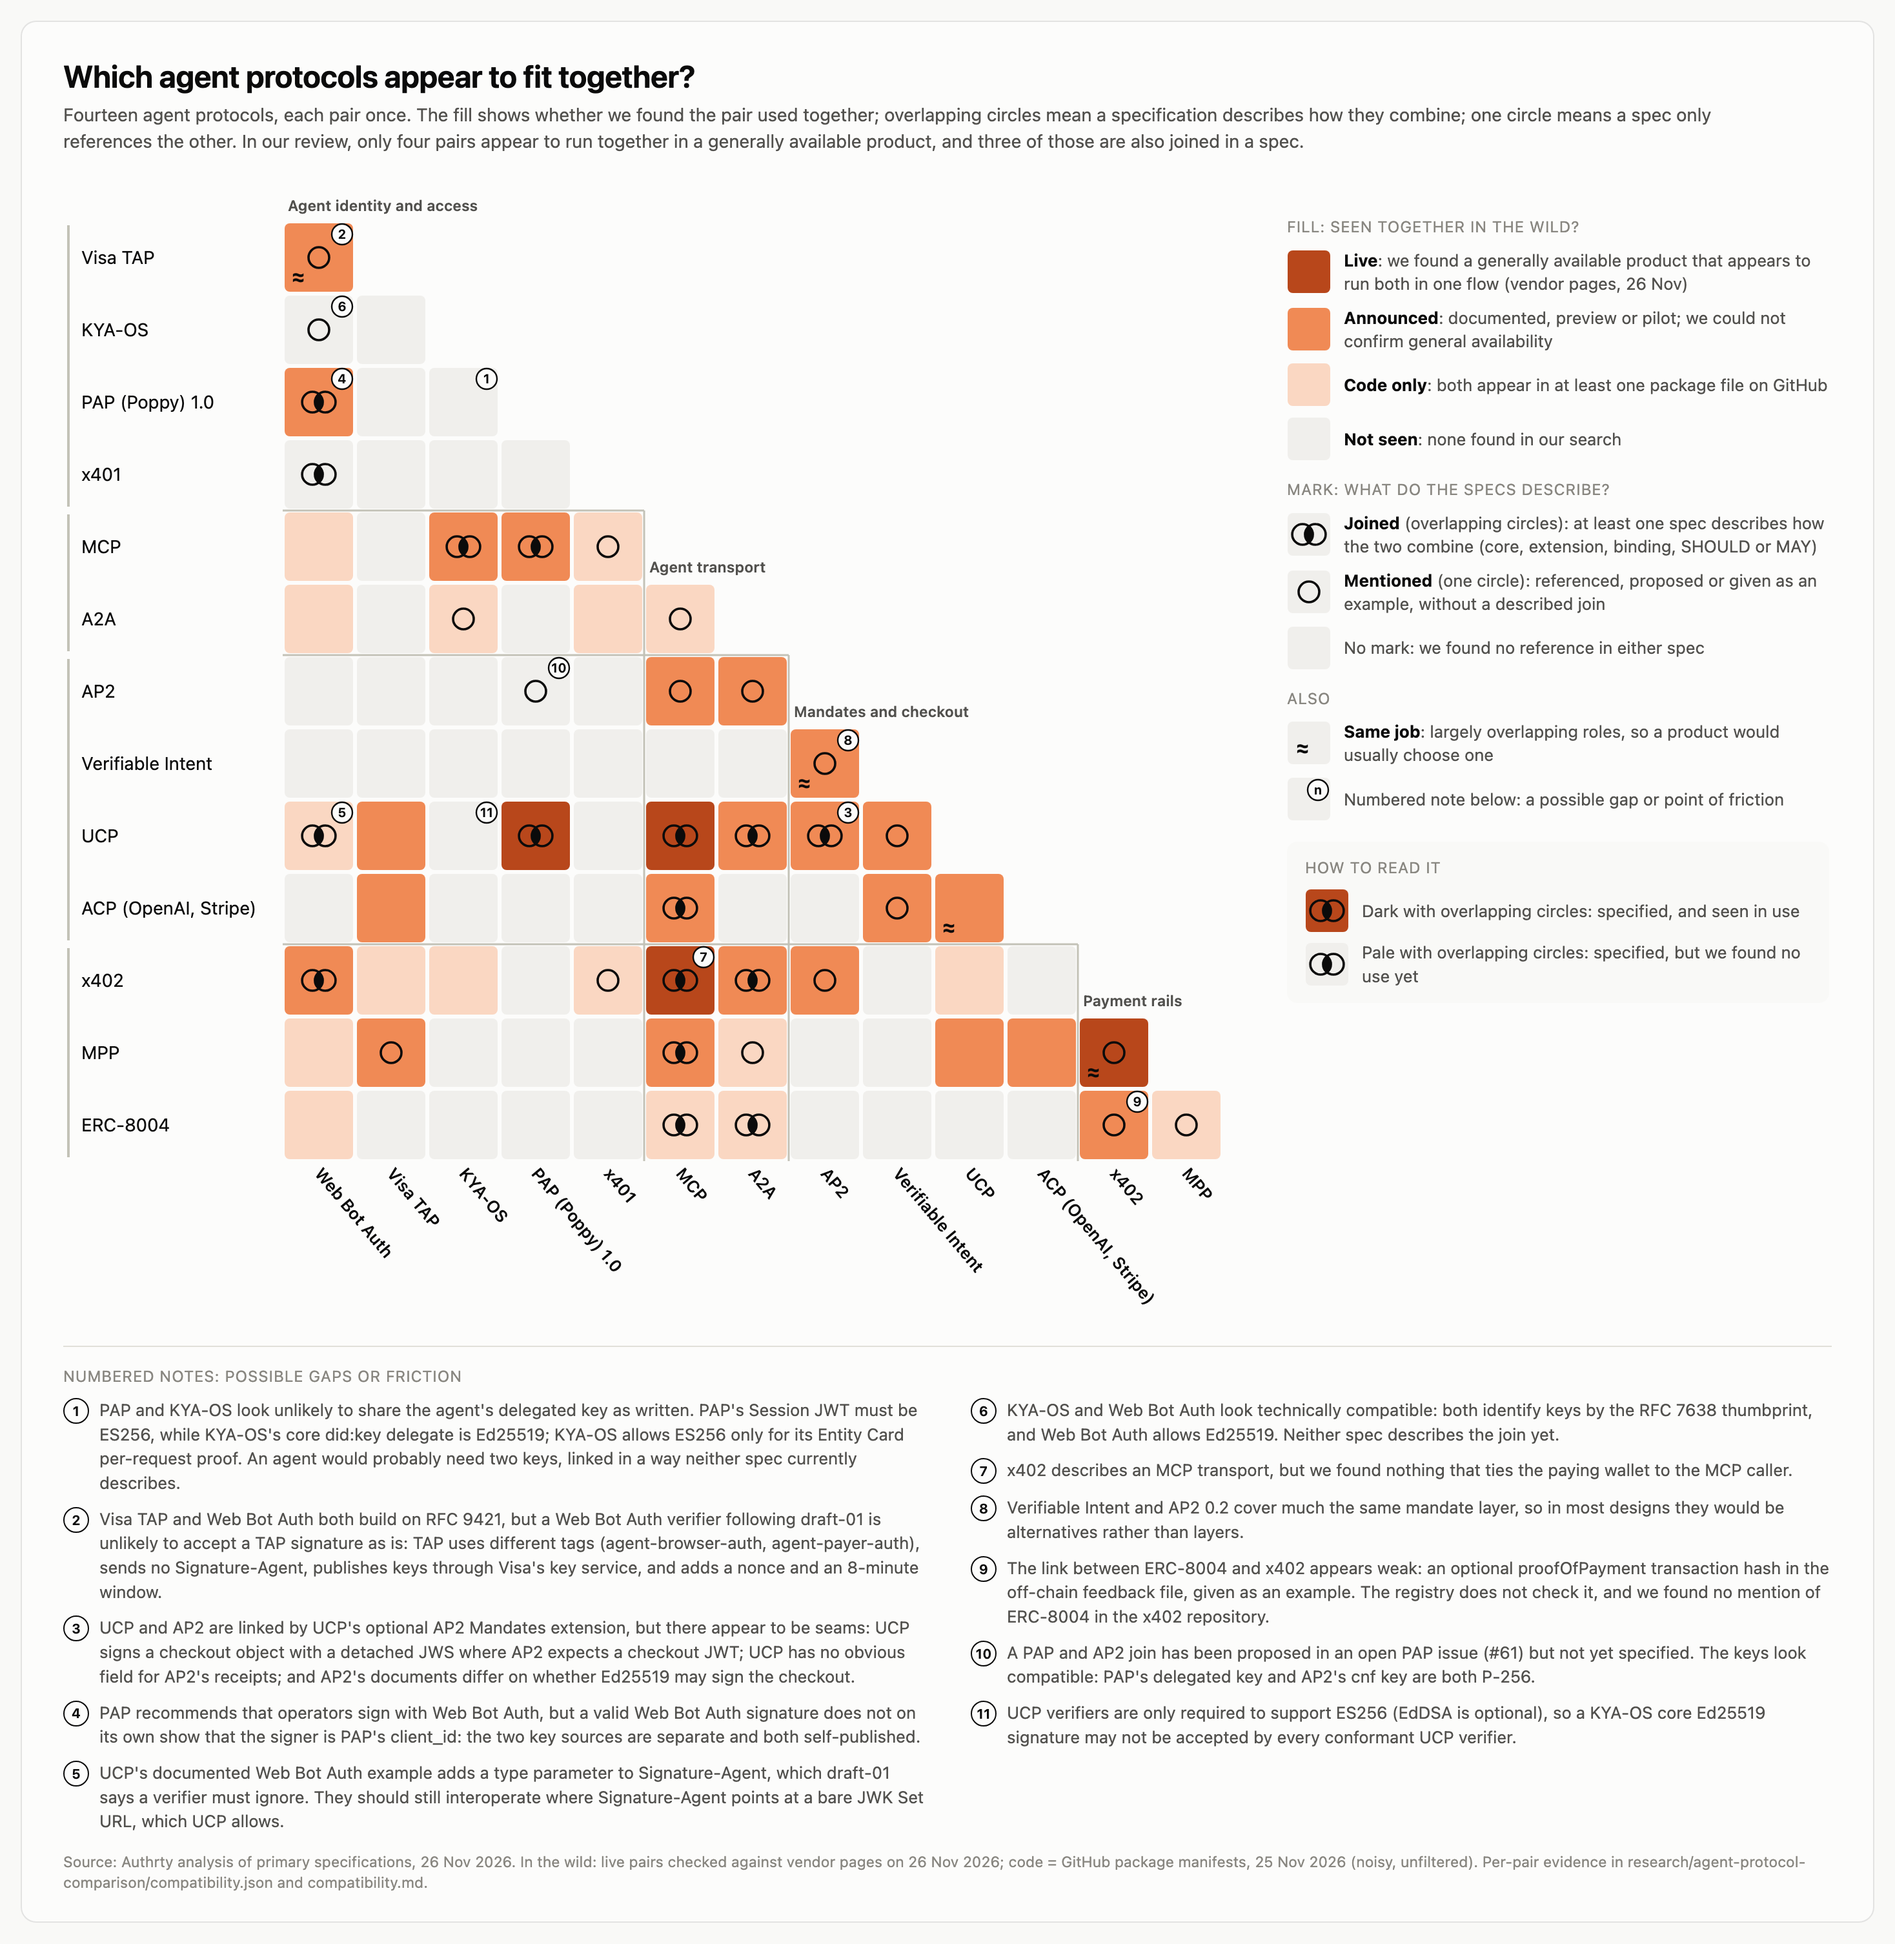
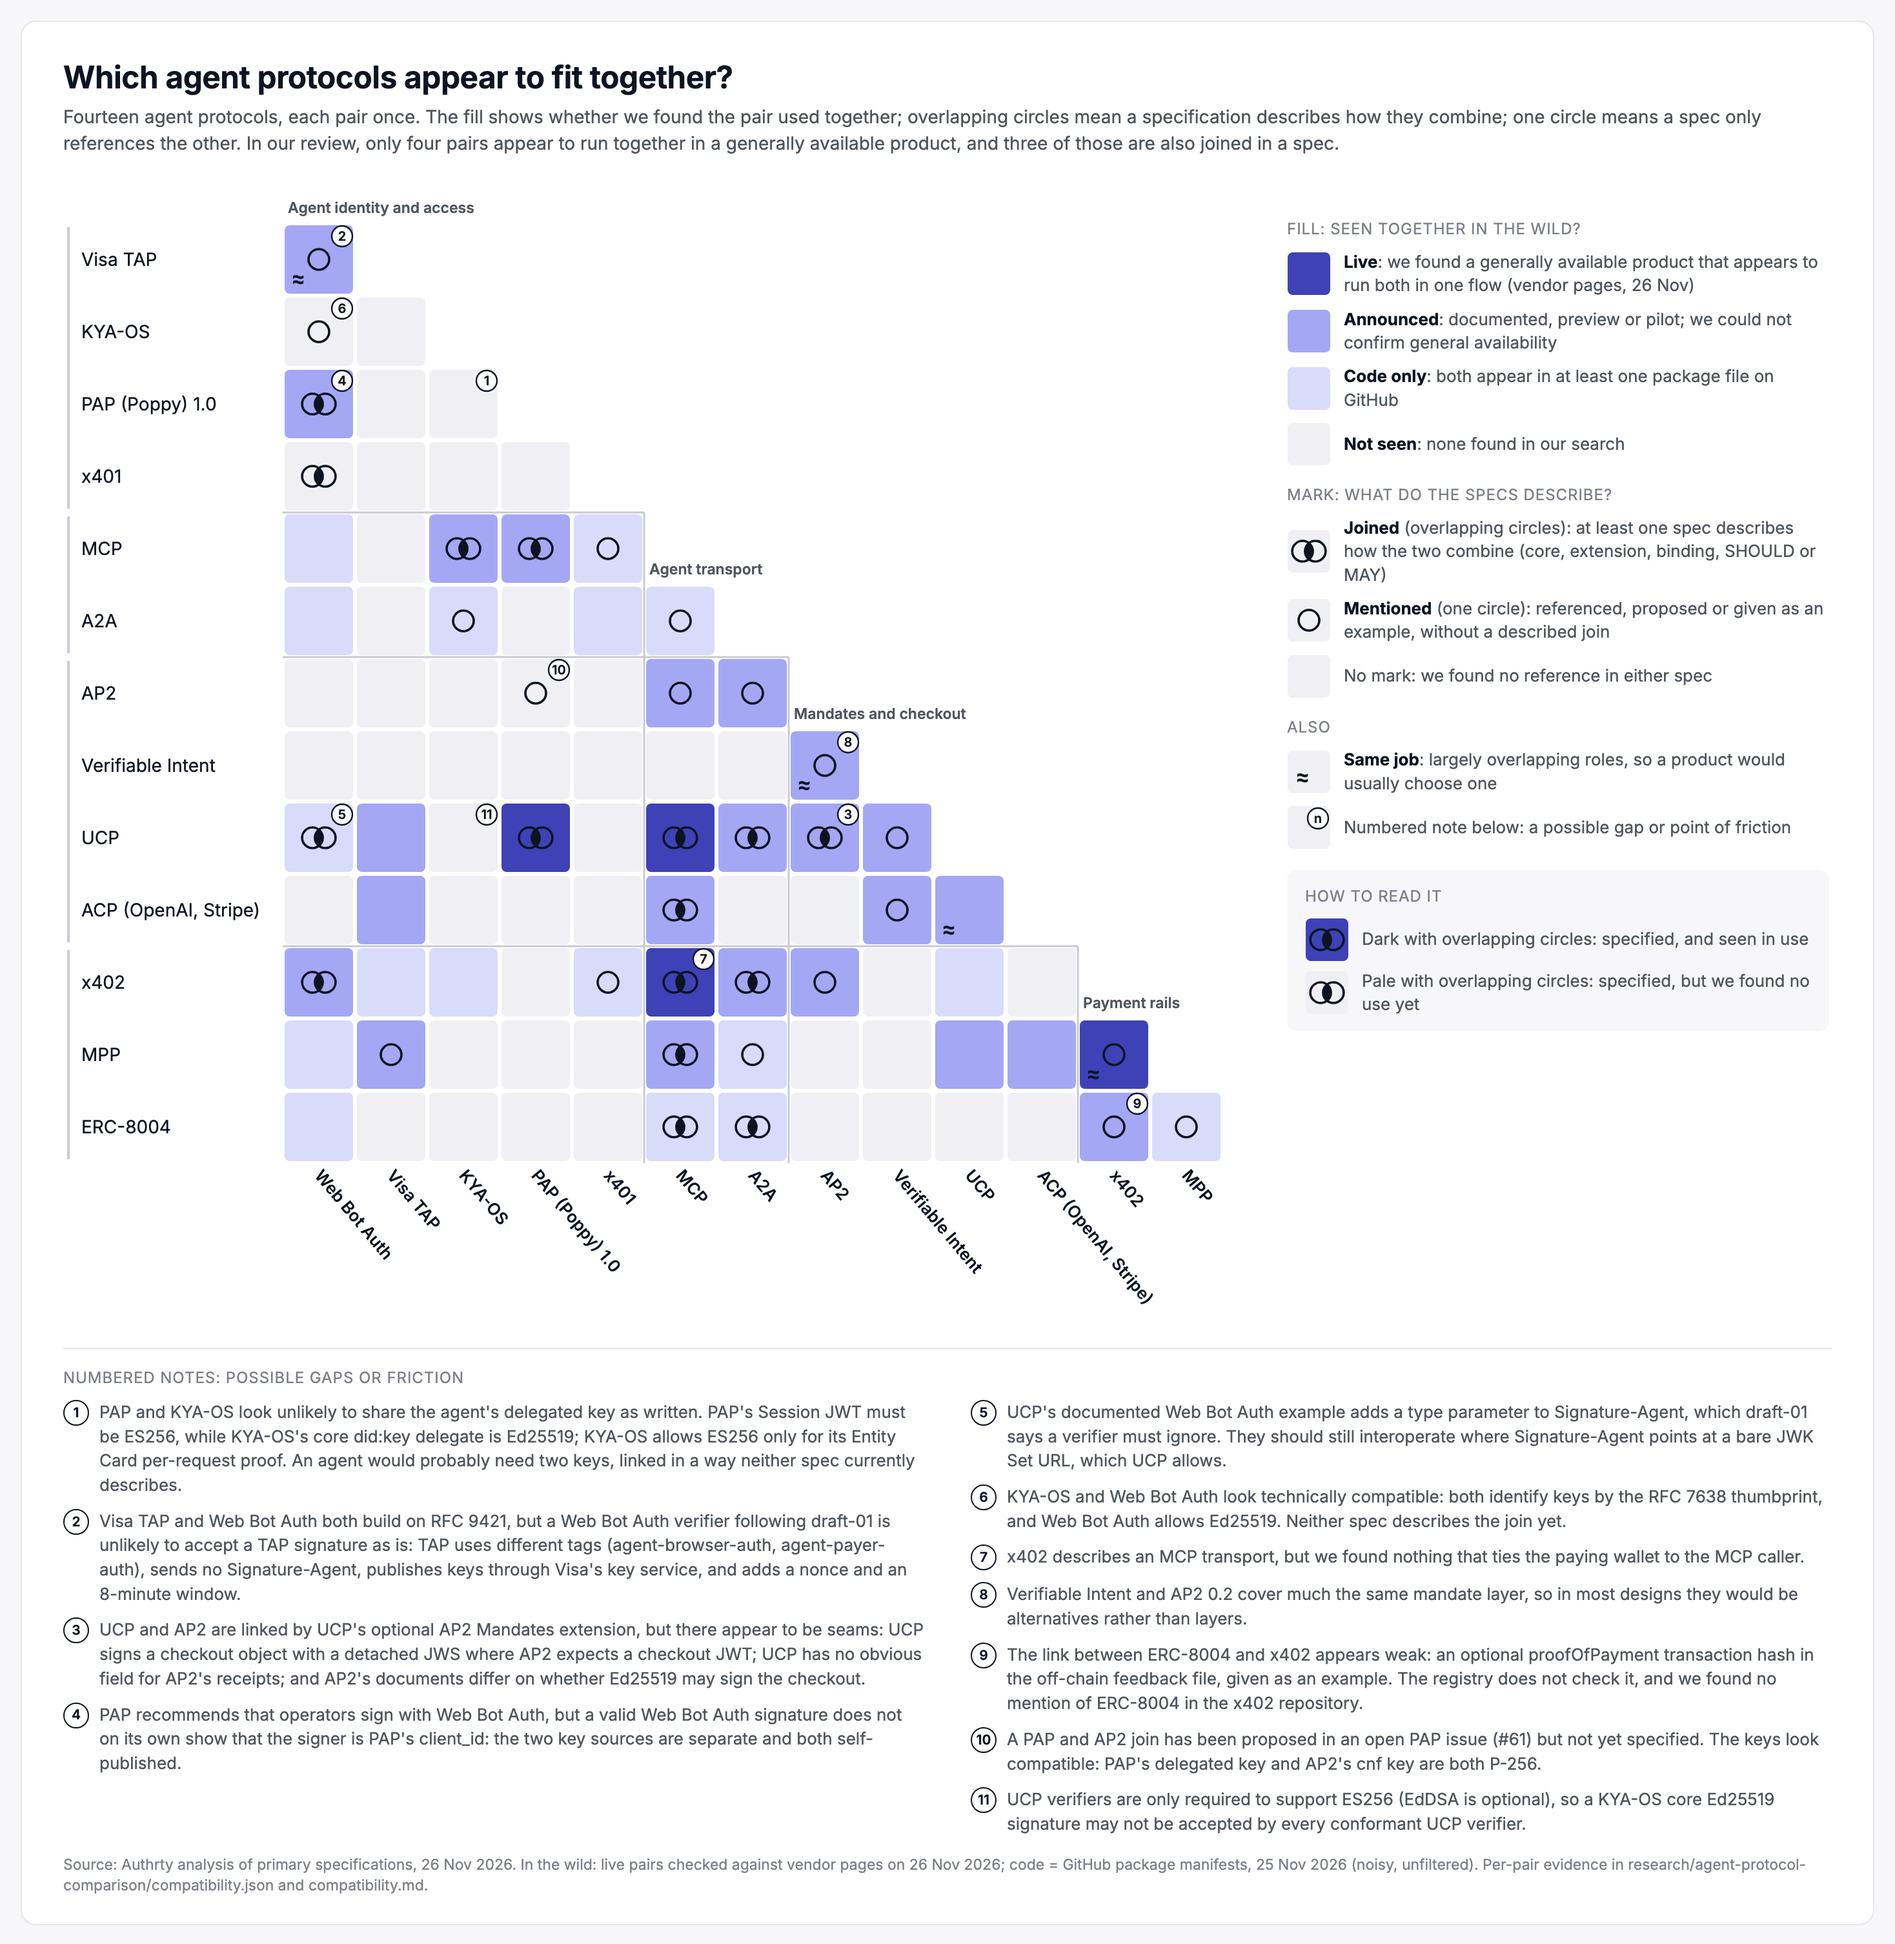
Restyle comparison charts in the Authrty palette
Uses the authrty.ai brand colours and font across the seven comparison
charts: indigo #3E42B6 for met and live, lavender #B9BBF8 for partial
and announced, navy #0D1421 for text and adoption bars, Inter for type.
Scores, data and layout are unchanged. The OneID archive chart is left
as it was.

diff --git a/research/agent-protocol-comparison/charts/compat-matrix.py b/research/agent-protocol-comparison/charts/compat-matrix.py
@@ -11,15 +11,17 @@ import json, sys, html, os
 C = json.load(open(sys.argv[1]))
 OUT = sys.argv[2]
 
-INK, INK2, MUTED = '#0b0b0b', '#52514e', '#898781'
-SURF, PLANE, GRID, AXIS = '#fcfcfb', '#f9f9f7', '#e1e0d9', '#c3c2b7'
-ABSENT = '#f0efec'
-# one hue, light -> dark
-WILD = {'none': (ABSENT, INK), 'code': ('#fad7c2', INK), 'announced': ('#f08a55', INK), 'live': ('#b8471b', '#fff')}
+# Authrty brand palette (authrty.ai): navy #0D1421, indigo #3E42B6, lavender #B9BBF8, text #50565D, font Inter
+INK, INK2, MUTED = '#0D1421', '#50565D', '#7B7F88'
+SURF, PLANE, GRID, AXIS = '#FFFFFF', '#F7F7FA', '#E6E6EC', '#C9CAD6'
+ABSENT = '#F0F0F4'
+# one hue (Authrty indigo), light -> dark
+WILD = {'none': (ABSENT, INK), 'code': ('#D9DBFA', INK), 'announced': ('#A4A7F3', INK), 'live': ('#3E42B6', '#fff')}
 WILD_LABEL = {'live': 'Live', 'announced': 'Announced, preview or pilot', 'code': 'Code only', 'none': 'Not seen'}
 WRANK = {'live': 3, 'announced': 2, 'code': 1, 'none': 0}
 SRANK = {'defined': 2, 'mentioned': 1, 'none': 0}
-FONT = 'system-ui,-apple-system,"Segoe UI",sans-serif'
+FONT = 'Inter,system-ui,-apple-system,"Segoe UI",sans-serif'
+FONT_LINK = '<link rel="preconnect" href="https://fonts.googleapis.com"><link href="https://fonts.googleapis.com/css2?family=Inter:wght@400;600;650;700&display=block" rel="stylesheet">'
 
 NAMES = {'ACP': 'ACP (OpenAI, Stripe)', 'UCP': 'UCP', 'AP2': 'AP2', 'VI': 'Verifiable Intent',
          'TAP': 'Visa TAP', 'x402': 'x402', 'MPP': 'MPP', 'PAP': 'PAP (Poppy) 1.0', 'MCP': 'MCP',
@@ -70,10 +72,10 @@ def badge(x, y, n):
 
 
 def page(title, sub, body, w, src):
-    return f'''<!doctype html><html><head><meta charset="utf-8"><title>{html.escape(title)}</title><style>
+    return f'''<!doctype html><html><head><meta charset="utf-8">{FONT_LINK}<title>{html.escape(title)}</title><style>
 html,body{{margin:0;background:{PLANE}}}
 body{{width:{w}px;font-family:{FONT};color:{INK}}}
-.card{{margin:16px;background:{SURF};border:1px solid rgba(11,11,11,.10);border-radius:12px;padding:28px 32px 22px}}
+.card{{margin:16px;background:{SURF};border:1px solid rgba(13,20,33,.10);border-radius:12px;padding:28px 32px 22px}}
 h1{{font-size:24px;font-weight:650;margin:0 0 6px;letter-spacing:-.01em}}
 .sub{{font-size:14px;color:{INK2};margin:0 0 18px;line-height:1.45;max-width:{w-140}px}}
 .src{{font-size:11.5px;color:{MUTED};margin-top:14px;line-height:1.4}}
@@ -165,14 +167,14 @@ def tri_legend():
     def cell(fill, inner=''):
         return f'<svg width="34" height="34" style="flex:none"><rect x="0.5" y="0.5" width="33" height="33" rx="4" fill="{fill}"/>{inner}</svg>'
     fill_rows = ''.join(row(cell(WILD[k][0]), t) for k, t in [
-        ('live', '<b style="color:#0b0b0b">Live</b>: we found a generally available product that appears to run both in one flow (vendor pages, 26 Nov)'),
-        ('announced', '<b style="color:#0b0b0b">Announced</b>: documented, preview or pilot; we could not confirm general availability'),
-        ('code', '<b style="color:#0b0b0b">Code only</b>: both appear in at least one package file on GitHub'),
-        ('none', '<b style="color:#0b0b0b">Not seen</b>: none found in our search')])
-    glyph_rows = (row(cell(ABSENT, glyph(17, 17, 'defined', INK)), '<b style="color:#0b0b0b">Joined</b> (overlapping circles): at least one spec describes how the two combine (core, extension, binding, SHOULD or MAY)')
-                  + row(cell(ABSENT, glyph(17, 17, 'mentioned', INK)), '<b style="color:#0b0b0b">Mentioned</b> (one circle): referenced, proposed or given as an example, without a described join')
+        ('live', '<b style="color:#0D1421">Live</b>: we found a generally available product that appears to run both in one flow (vendor pages, 26 Nov)'),
+        ('announced', '<b style="color:#0D1421">Announced</b>: documented, preview or pilot; we could not confirm general availability'),
+        ('code', '<b style="color:#0D1421">Code only</b>: both appear in at least one package file on GitHub'),
+        ('none', '<b style="color:#0D1421">Not seen</b>: none found in our search')])
+    glyph_rows = (row(cell(ABSENT, glyph(17, 17, 'defined', INK)), '<b style="color:#0D1421">Joined</b> (overlapping circles): at least one spec describes how the two combine (core, extension, binding, SHOULD or MAY)')
+                  + row(cell(ABSENT, glyph(17, 17, 'mentioned', INK)), '<b style="color:#0D1421">Mentioned</b> (one circle): referenced, proposed or given as an example, without a described join')
                   + row(cell(ABSENT), 'No mark: we found no reference in either spec'))
-    other = (row(cell(ABSENT, f'<text x="7" y="26" font-size="15" font-weight="700" fill="{INK}">≈</text>'), '<b style="color:#0b0b0b">Same job</b>: largely overlapping roles, so a product would usually choose one')
+    other = (row(cell(ABSENT, f'<text x="7" y="26" font-size="15" font-weight="700" fill="{INK}">≈</text>'), '<b style="color:#0D1421">Same job</b>: largely overlapping roles, so a product would usually choose one')
              + row(cell(ABSENT, badge(24, 10, 'n')), 'Numbered note below: a possible gap or point of friction'))
     read = (f'<div style="margin-top:16px;padding:12px 14px;background:{PLANE};border-radius:8px">'
             f'<div class="kicker">How to read it</div>'

diff --git a/research/agent-protocol-comparison/charts/make-charts.py b/research/agent-protocol-comparison/charts/make-charts.py
@@ -6,11 +6,13 @@ OUT = sys.argv[2]   # output dir
 d = json.load(open(SRC))
 S, P = d['rubric_scores'], d['chain_scores']
 
-INK, INK2, MUTED = '#0b0b0b', '#52514e', '#898781'
-SURF, PLANE, GRID, AXIS = '#fcfcfb', '#f9f9f7', '#e1e0d9', '#c3c2b7'
-BLUE, ORANGE = '#2a78d6', '#eb6834'
-ABSENT, PARTIAL, MET = '#f0efec', '#86b6ef', '#184f95'
-FONT = 'system-ui,-apple-system,"Segoe UI",sans-serif'
+# Authrty brand palette (authrty.ai): navy #0D1421, indigo #3E42B6, lavender #B9BBF8, text #50565D, font Inter
+INK, INK2, MUTED = '#0D1421', '#50565D', '#7B7F88'
+SURF, PLANE, GRID, AXIS = '#FFFFFF', '#F7F7FA', '#E6E6EC', '#C9CAD6'
+BLUE, ORANGE = '#3E42B6', '#0D1421'  # totals and Harvey balls in indigo; adoption bars in navy
+ABSENT, PARTIAL, MET = '#F0F0F4', '#B9BBF8', '#3E42B6'
+FONT = 'Inter,system-ui,-apple-system,"Segoe UI",sans-serif'
+FONT_LINK = '<link rel="preconnect" href="https://fonts.googleapis.com"><link href="https://fonts.googleapis.com/css2?family=Inter:wght@400;600;650;700&display=block" rel="stylesheet">'
 
 NAMES = {'ACP': 'ACP (OpenAI, Stripe)', 'UCP': 'UCP', 'AP2': 'AP2', 'VI': 'Verifiable Intent',
          'TAP': 'Visa TAP', 'x402': 'x402', 'MPP': 'MPP', 'PAP': 'PAP (Poppy) 1.0', 'MCP': 'MCP',
@@ -20,10 +22,10 @@ SOURCE = 'Source: Authrty analysis of primary specifications, 25 Nov 2026. Rubri
 
 
 def page(title, sub, body, w, h, src=SOURCE):
-    return f'''<!doctype html><html><head><meta charset="utf-8"><title>{html.escape(title)}</title><style>
+    return f'''<!doctype html><html><head><meta charset="utf-8">{FONT_LINK}<title>{html.escape(title)}</title><style>
 html,body{{margin:0;background:{PLANE}}}
 body{{width:{w}px;font-family:{FONT};color:{INK}}}
-.card{{margin:16px;background:{SURF};border:1px solid rgba(11,11,11,.10);border-radius:12px;padding:28px 32px 22px}}
+.card{{margin:16px;background:{SURF};border:1px solid rgba(13,20,33,.10);border-radius:12px;padding:28px 32px 22px}}
 h1{{font-size:24px;font-weight:650;margin:0 0 6px;letter-spacing:-.01em}}
 .sub{{font-size:14px;color:{INK2};margin:0 0 18px;line-height:1.45;max-width:{w-120}px}}
 .src{{font-size:11.5px;color:{MUTED};margin-top:14px;line-height:1.4}}
@@ -109,7 +111,7 @@ def heat(rows, title, sub, best_row=False, label_w=250, extra=150, ghost_legend=
     # legend
     lx = 0
     for v in (2, 1, 0):
-        svg.append(f'<rect x="{lx}" y="4" width="22" height="16" rx="3" fill="{fill[v]}" stroke="rgba(11,11,11,.10)"/>'
+        svg.append(f'<rect x="{lx}" y="4" width="22" height="16" rx="3" fill="{fill[v]}" stroke="rgba(13,20,33,.10)"/>'
                    f'<text x="{lx+30}" y="17" font-size="13.5" fill="{INK}">{v} = {word[v]}</text>')
         lx += 120
     if ghost_legend:
@@ -237,9 +239,9 @@ ASRC = ('Link scores: Authrty analysis of primary specifications, 25 Nov 2026, w
         'Downloads of packages published by each protocol\'s maintainers on npm, PyPI and crates.io, 19 Oct to 15 Nov 2026; third-party packages excluded. '
         'Downloads include CI and dependency installs, not just users. Package list and notes in research/agent-protocol-comparison/adoption.json.')
 MODE = 'log'  # adoption bars: one log scale, 1 to 1 billion, shared by stars and downloads
-ALEG = ('<br><b>Orange bars show adoption</b>: GitHub stars and recent downloads, both on one log scale from 1 to 1 billion, so bar lengths compare across the two columns.'
+ALEG = ('<br><b>Navy bars show adoption</b>: GitHub stars and recent downloads, both on one log scale from 1 to 1 billion, so bar lengths compare across the two columns.'
         if MODE == 'log' else
-        ' <b>Orange bars show adoption</b>: GitHub stars and recent downloads, each as a linear share of the largest value in its column (A2A for stars, MCP for downloads).')
+        ' <b>Navy bars show adoption</b>: GitHub stars and recent downloads, each as a linear share of the largest value in its column (A2A for stars, MCP for downloads).')
 GP, ST = G['general_protocols'], G['stacks']
 L = ['L%d' % i for i in range(1, 11)]
 SRC2 = 'Source: Authrty analysis of primary specifications, 25 Nov 2026, with independent review. Rubrics, per-link citations and data in research/agent-protocol-comparison/.'
@@ -364,7 +366,7 @@ def coverage():
     svg = [f'<svg width="{W}" height="{H}" viewBox="0 0 {W} {H}">']
     lx = 0
     for k, lab in (('yes', 'defined in the spec'), ('partial', 'generic hook only'), ('no', 'not covered')):
-        svg.append(f'<rect x="{lx}" y="4" width="22" height="16" rx="3" fill="{fill[k]}" stroke="rgba(11,11,11,.10)"/>'
+        svg.append(f'<rect x="{lx}" y="4" width="22" height="16" rx="3" fill="{fill[k]}" stroke="rgba(13,20,33,.10)"/>'
                    f'<text x="{lx+30}" y="17" font-size="13.5" fill="{INK}">{lab}</text>')
         lx += 200
     for i, (c, a, b) in enumerate(CLASSES):
